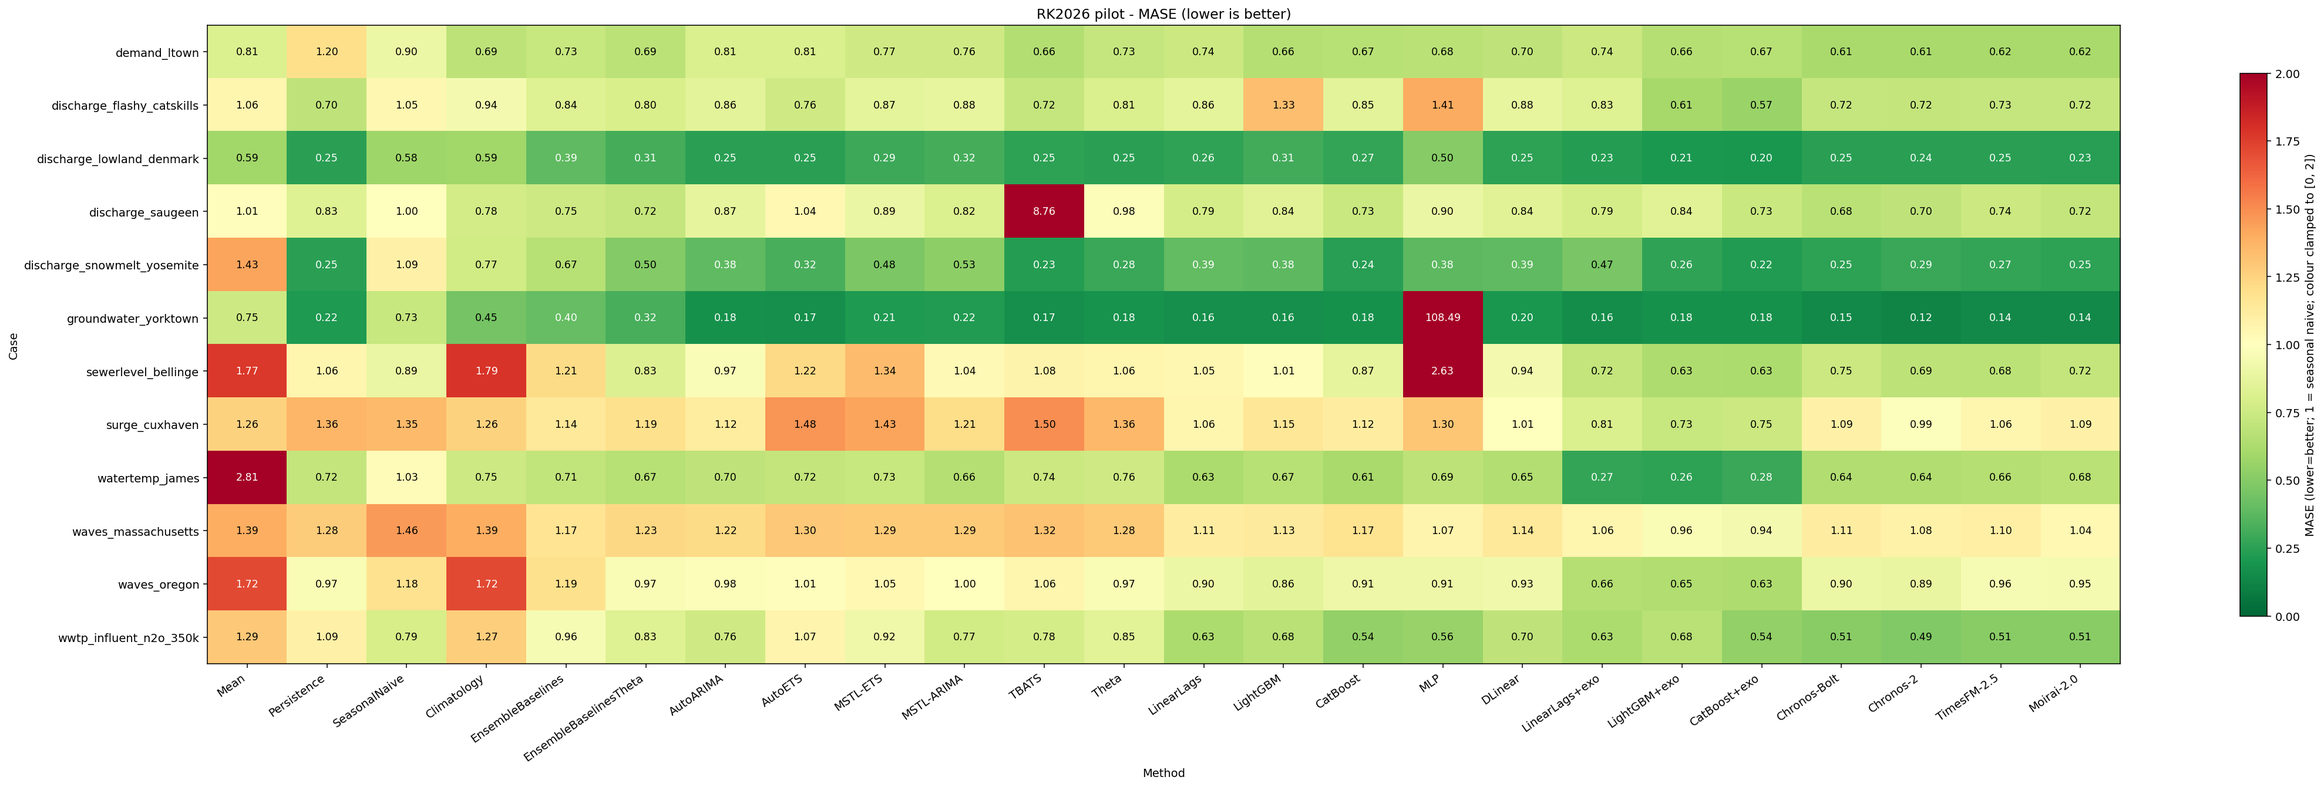
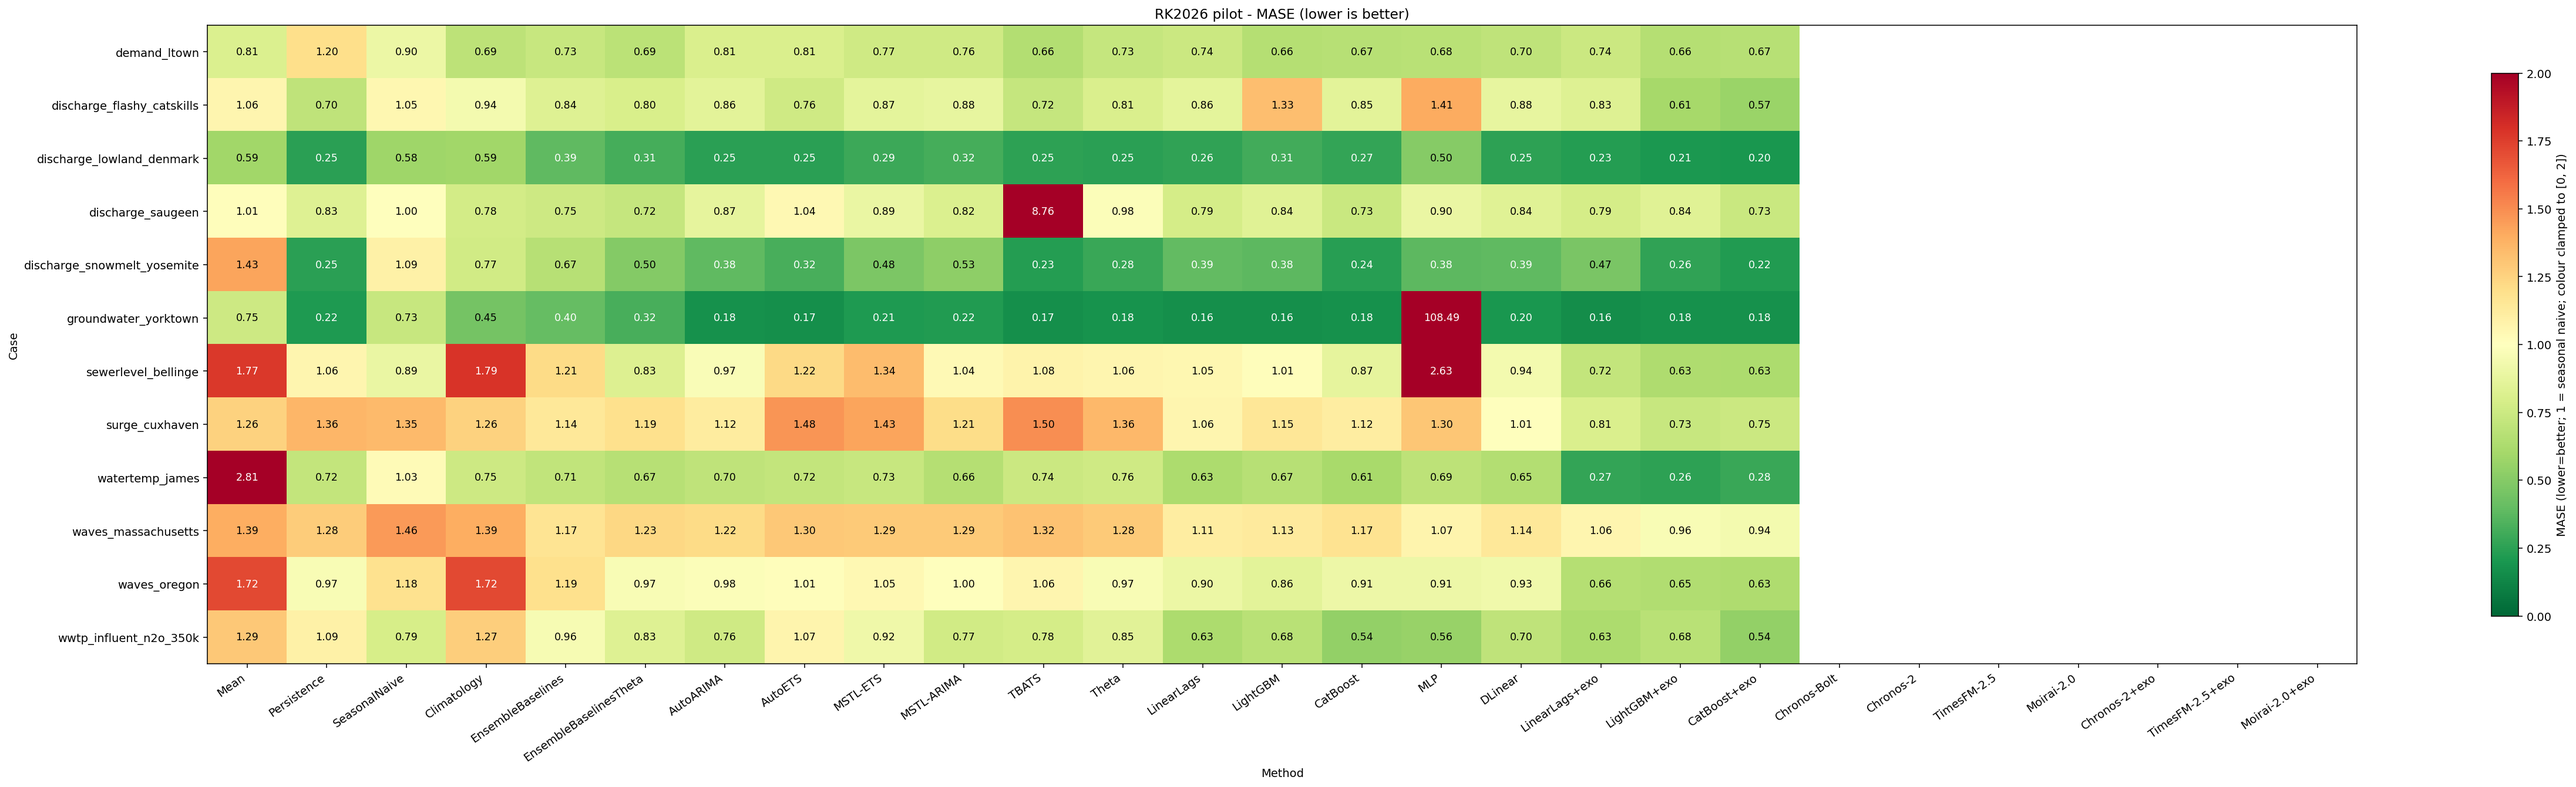
tweaks in app

diff --git a/web/src/components/SnapshotPanel/SnapshotGrid.tsx b/web/src/components/SnapshotPanel/SnapshotGrid.tsx
@@ -1,6 +1,6 @@
 import { format as d3format } from 'd3-format';
 import { useMemo } from 'react';
-import type { Annotations, Data, Layout, LayoutAxis, Shape } from 'plotly.js';
+import type { Annotations, AxisName, Data, Layout, LayoutAxis, Shape } from 'plotly.js';
 import Plot from '../../plotly';
 import { METHOD_COLORS } from '../../data/constants';
 import { freqToMs } from '../../data/freq';
@@ -13,6 +13,13 @@ const AXIS_STYLE = {
   showline: true,
   linecolor: 'black',
   ticks: 'outside' as const,
+};
+
+const X_AXIS_STYLE = {
+  ...AXIS_STYLE,
+  tickangle: 0 as const,
+  tickformat: '%b %d, %H:%M',
+  nticks: 4,
 };
 
 function effectiveVariant(
@@ -86,8 +93,6 @@ export function SnapshotGrid({
         y: actualValues,
         name: 'Actual',
         line: { color: 'black', width: 2 },
-        legendgroup: 'Actual',
-        showlegend: i === 0,
         xaxis: axes.xaxisRef,
         yaxis: axes.yaxisRef,
       } as Data);
@@ -104,8 +109,6 @@ export function SnapshotGrid({
           y: predValues,
           name: label,
           line: { color: colorOf.get(method), width: 2 },
-          legendgroup: method,
-          showlegend: i === 0,
           xaxis: axes.xaxisRef,
           yaxis: axes.yaxisRef,
         } as Data);
@@ -135,28 +138,28 @@ export function SnapshotGrid({
         font: { size: 12 },
       });
 
-      axisLayout[axes.xaxisKey] = { domain: axes.xDomain, ...AXIS_STYLE };
-      axisLayout[axes.yaxisKey] = { domain: axes.yDomain, ...AXIS_STYLE };
+      axisLayout[axes.xaxisKey] = {
+        domain: axes.xDomain,
+        anchor: axes.yaxisRef as AxisName,
+        ...X_AXIS_STYLE,
+      };
+      axisLayout[axes.yaxisKey] = {
+        domain: axes.yDomain,
+        anchor: axes.xaxisRef as AxisName,
+        ...AXIS_STYLE,
+      };
     });
 
     const layout: Partial<Layout> = {
       ...(axisLayout as Partial<Layout>),
-      height: 240 * curated.length + 60,
-      margin: { l: 50, t: 60, r: 20, b: 40 },
+      height: 220 * curated.length + 30,
+      margin: { l: 50, t: 30, r: 20, b: 40 },
       paper_bgcolor: 'white',
       plot_bgcolor: 'white',
       font: { family: 'system-ui, sans-serif' },
       annotations,
       shapes,
-      legend: {
-        orientation: 'h',
-        yanchor: 'bottom',
-        y: 1.02,
-        xanchor: 'left',
-        x: 0,
-        bgcolor: 'rgba(0,0,0,0)',
-        borderwidth: 0,
-      },
+      showlegend: false,
     };
 
     return { data, layout };

diff --git a/web/src/components/CasePanel/CasePanel.tsx b/web/src/components/CasePanel/CasePanel.tsx
@@ -48,19 +48,19 @@ export function CasePanel({ caseId, caseMeta, scores, methods, showGlobal }: Pro
         <DistributionPlot distribution={distribution} caseId={caseId} />
         <p style={CAPTION_STYLE}>Train / val / test split</p>
         <ProportionsBar counts={splitCounts} caseId={caseId} />
+        <TrainingStats
+          scores={scores}
+          caseMeta={caseMeta}
+          caseId={caseId}
+          methods={methods}
+          extended={extended}
+        />
       </details>
       <hr />
       <details open>
         <summary style={SUMMARY_STYLE}>Case summary</summary>
         <div style={{ marginTop: 4 }}>
           <CaseSummary caseMeta={caseMeta} />
-          <TrainingStats
-            scores={scores}
-            caseMeta={caseMeta}
-            caseId={caseId}
-            methods={methods}
-            extended={extended}
-          />
         </div>
       </details>
     </div>

diff --git a/web/src/components/SnapshotPanel/snapshotLayout.ts b/web/src/components/SnapshotPanel/snapshotLayout.ts
@@ -14,7 +14,7 @@ export type PanelAxes = {
   titleY: number;
 };
 
-const GAP = 0.06;
+const GAP = 0.05;
 
 /** Per-panel axis domains for a `maxCols`-wide grid of `panelCount` subplots, stacking
  * rows top-to-bottom (panel 0 at the top-left) — Plotly's own multi-axis layout has no

diff --git a/web/src/App.tsx b/web/src/App.tsx
@@ -247,6 +247,7 @@ function MainLayout({
             padding: 16,
             borderLeft: '1px solid var(--border)',
             overflowY: 'auto',
+            background: '#ffffff',
           }}
         >
           <CasePanel
